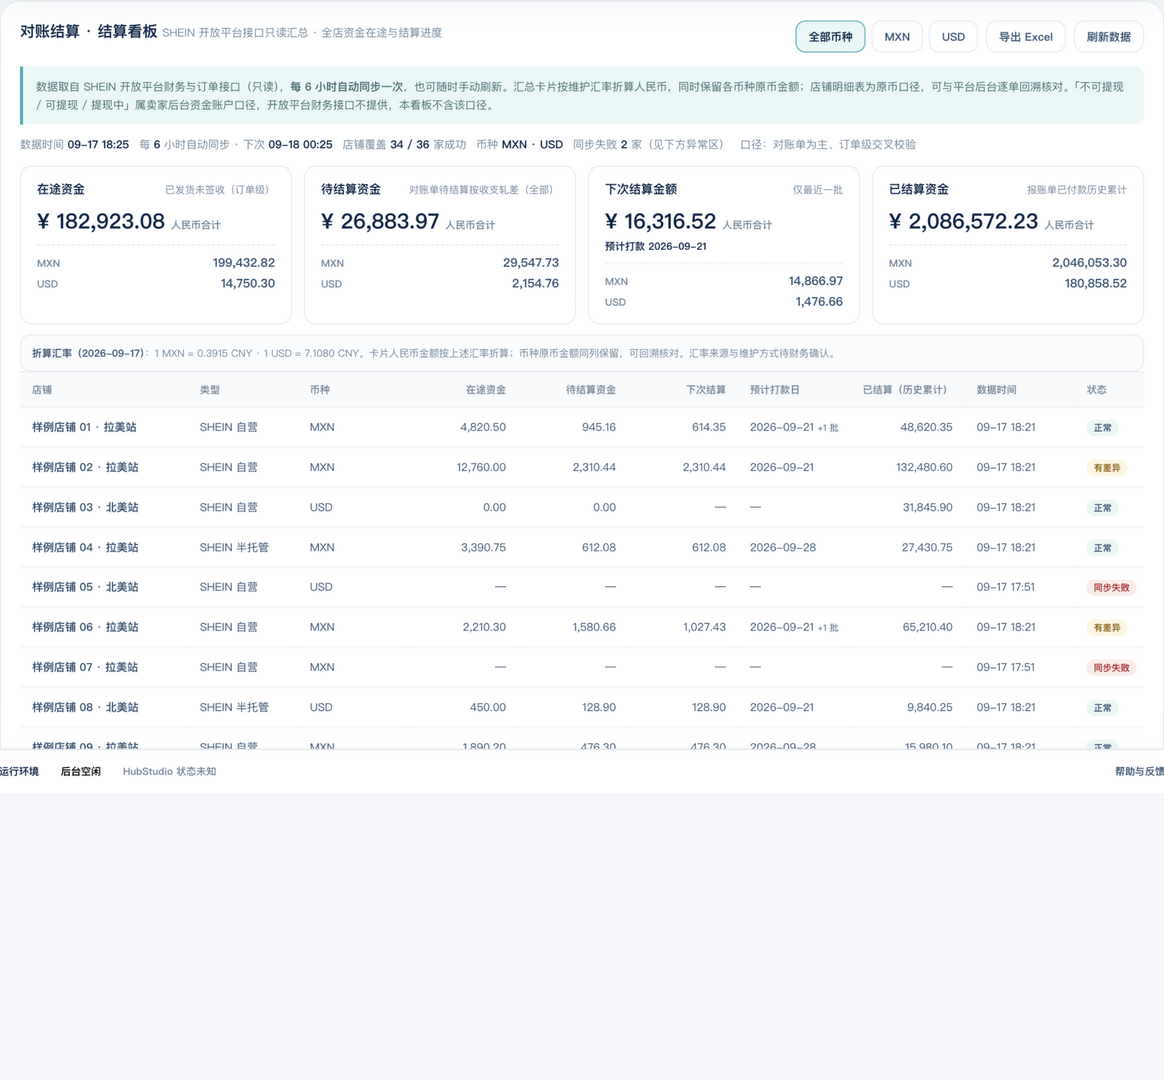
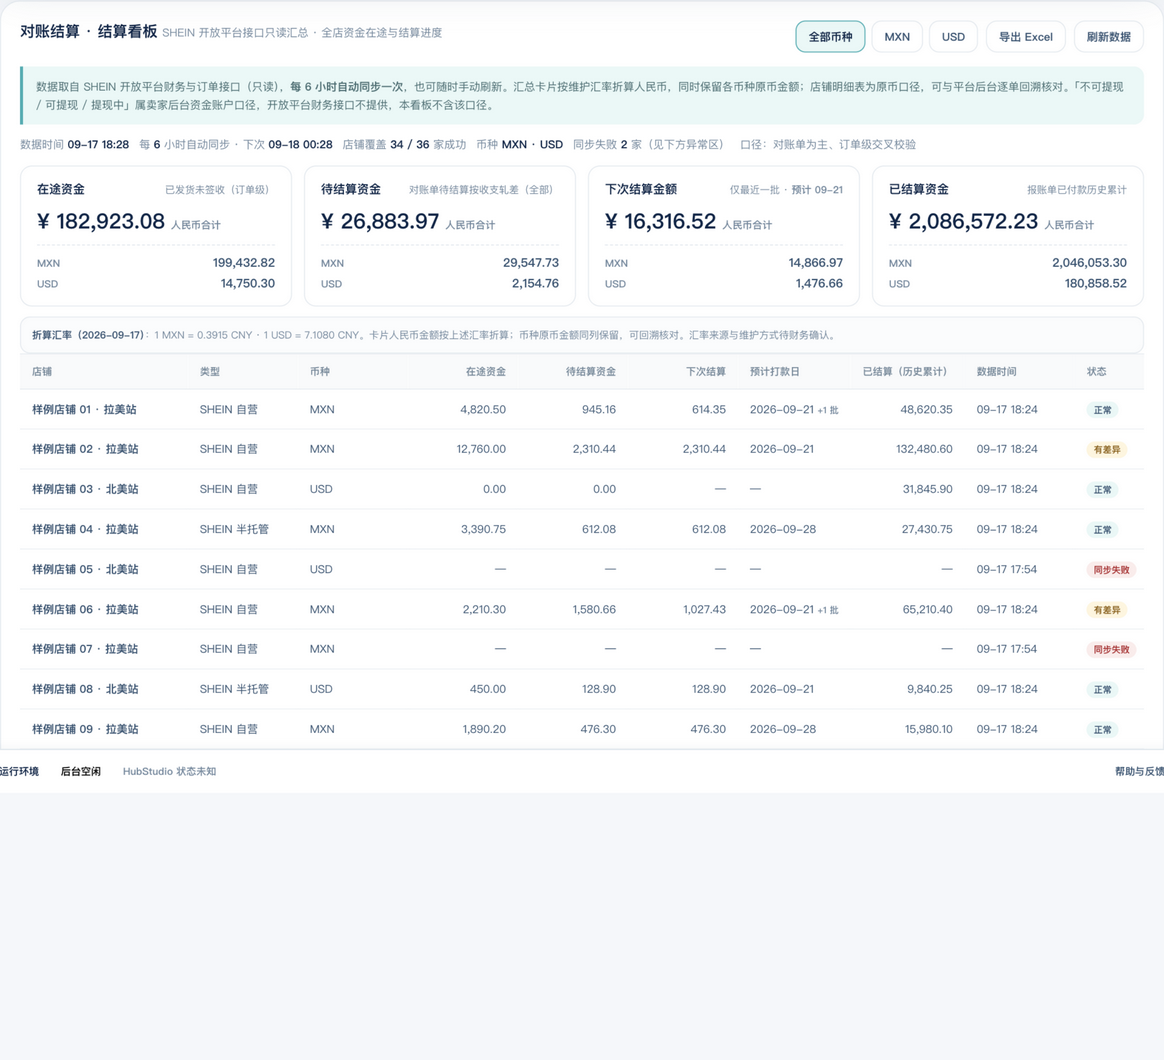
style(finance): 汇总卡片统一高度，打款日移入卡片头部
问题：预计打款日独占金额下方一行，第 3 张卡比其余三张多一行，四张卡的
人民币金额与币种行不在同一水平线上。

改为：
- 打款日移入卡片头部 hint 位（「仅最近一批 · 预计 09-21」），用强调色
  区分；四张卡结构统一为 头部 / 人民币金额 / 币种行
- .settle-card-native 设 min-height:38px：各卡币种数不一致时（某币种在
  当前筛选下无金额）卡片仍等高、币种行仍对齐
- 卡片头部 hint 不换行，避免长文案折行把金额推低

实测四张卡高度均 141px，人民币金额与首行币种行的 top 完全一致，
hint 无溢出。

diff --git a/cloud/auth-service/src/xynigo_auth/web/index.html b/cloud/auth-service/src/xynigo_auth/web/index.html
@@ -1501,7 +1501,8 @@
   .settle-card { padding: 14px 16px; border: 1px solid var(--line); border-radius: 12px; background: #fff; }
   .settle-card-head { display: flex; align-items: baseline; justify-content: space-between; gap: 8px; }
   .settle-card-head b { color: var(--navy-950); font-size: 12px; }
-  .settle-card-head small { color: var(--navy-500); font-size: 10px; }
+  .settle-card-head small { color: var(--navy-500); font-size: 10px; white-space: nowrap; }
+  .settle-hint-due { color: var(--rhino-700); font-weight: 900; }
   .settle-card-rows { margin-top: 10px; display: grid; gap: 7px; }
   .settle-card-row { display: flex; align-items: baseline; justify-content: space-between; gap: 8px; }
   .settle-card-row .cur { color: var(--navy-500); font-size: 10px; font-weight: 800; }
@@ -1509,12 +1510,12 @@
   .settle-card-row .due { color: var(--rhino-700); font-size: 10px; font-weight: 800; }
   .settle-card-cny { margin-top: 9px; color: var(--navy-950); font-size: 21px; font-weight: 900; font-variant-numeric: tabular-nums; }
   .settle-card-cny small { margin-left: 6px; color: var(--navy-500); font-size: 10px; font-weight: 800; }
-  .settle-card-native { margin-top: 9px; display: grid; gap: 4px; padding-top: 9px; border-top: 1px dashed var(--line); }
+    /* 固定两行高度：各卡币种数不一致时（如某币种无待结算）卡片仍等高、币种行仍对齐 */
+  .settle-card-native { margin-top: 9px; min-height: 38px; display: grid; gap: 4px; padding-top: 9px; border-top: 1px dashed var(--line); align-content: start; }
   .settle-native-row { display: flex; align-items: baseline; justify-content: space-between; gap: 8px; }
   .settle-native-row .cur { color: var(--navy-500); font-size: 10px; font-weight: 800; }
   .settle-native-row .amt { color: var(--navy-700); font-size: 12px; font-weight: 850; font-variant-numeric: tabular-nums; }
   .settle-native-row .due { color: var(--rhino-700); font-size: 10px; font-weight: 800; }
-  .settle-card-due { margin-top: 4px; color: var(--rhino-700); font-size: 10px; font-weight: 800; }
   .settle-more { color: var(--navy-500); font-size: 9px; font-weight: 800; }
   /* 打款日 + 「+N 批」提示不换行，避免「批」字被折到第二行 */
   .settle-table td.pay-date { white-space: nowrap; }
@@ -14004,22 +14005,25 @@ function settleRenderCards() {
     { title: '在途资金', hint: '已发货未签收（订单级）', groups: settleGroupSum(okStores, 'inTransit') },
     { title: '待结算资金', hint: '对账单待结算按收支轧差（全部）', groups: settleGroupSum(okStores, 'unsettled') },
     { title: '下次结算金额', hint: '仅最近一批', groups: nearest ? nearest.groups : [],
-      due: nearest ? `预计打款 ${nearest.date}` : '' },
+      due: nearest ? nearest.date.slice(5) : '' },
     { title: '已结算资金', hint: '报账单已付款历史累计', groups: settleGroupSum(okStores, 'settled') }
   ];
   host.innerHTML = cards.map(card => {
     const cny = settleCnyTotal(card.groups);
     const cnyLine = card.groups.length
-      ? `<div class="settle-card-cny">¥ ${settleMoney(cny)}<small>人民币合计</small></div>` +
-        (card.due ? `<div class="settle-card-due">${card.due}</div>` : '')
+      ? `<div class="settle-card-cny">¥ ${settleMoney(cny)}<small>人民币合计</small></div>`
       : '';
     const rows = card.groups.length
       ? card.groups.map(group =>
         `<div class="settle-native-row"><span class="cur">${group.currency}</span>` +
         `<span class="amt">${settleMoney(group.total)}</span></div>`).join('')
       : '<div class="settle-card-none">当前范围内无可计入店铺</div>';
+    // 打款日放卡片头部（hint 位）而不是金额下方：多出一行会把这张卡的
+    // 币种行比其他三张压低一截，四张卡就不再齐平。
+    const dueHtml = card.due
+      ? ` · <span class="settle-hint-due">预计 ${card.due}</span>` : '';
     return `<div class="settle-card"><div class="settle-card-head"><b>${card.title}</b>` +
-      `<small>${card.hint}</small></div>${cnyLine}` +
+      `<small>${card.hint}${dueHtml}</small></div>${cnyLine}` +
       `<div class="settle-card-native">${rows}</div></div>`;
   }).join('');
   const fxNote = $('settleFxNote');

diff --git a/docs/prototypes/20260917-settlement-dashboard/本地预览-结算看板.html b/docs/prototypes/20260917-settlement-dashboard/本地预览-结算看板.html
@@ -1501,7 +1501,8 @@
   .settle-card { padding: 14px 16px; border: 1px solid var(--line); border-radius: 12px; background: #fff; }
   .settle-card-head { display: flex; align-items: baseline; justify-content: space-between; gap: 8px; }
   .settle-card-head b { color: var(--navy-950); font-size: 12px; }
-  .settle-card-head small { color: var(--navy-500); font-size: 10px; }
+  .settle-card-head small { color: var(--navy-500); font-size: 10px; white-space: nowrap; }
+  .settle-hint-due { color: var(--rhino-700); font-weight: 900; }
   .settle-card-rows { margin-top: 10px; display: grid; gap: 7px; }
   .settle-card-row { display: flex; align-items: baseline; justify-content: space-between; gap: 8px; }
   .settle-card-row .cur { color: var(--navy-500); font-size: 10px; font-weight: 800; }
@@ -1509,12 +1510,12 @@
   .settle-card-row .due { color: var(--rhino-700); font-size: 10px; font-weight: 800; }
   .settle-card-cny { margin-top: 9px; color: var(--navy-950); font-size: 21px; font-weight: 900; font-variant-numeric: tabular-nums; }
   .settle-card-cny small { margin-left: 6px; color: var(--navy-500); font-size: 10px; font-weight: 800; }
-  .settle-card-native { margin-top: 9px; display: grid; gap: 4px; padding-top: 9px; border-top: 1px dashed var(--line); }
+    /* 固定两行高度：各卡币种数不一致时（如某币种无待结算）卡片仍等高、币种行仍对齐 */
+  .settle-card-native { margin-top: 9px; min-height: 38px; display: grid; gap: 4px; padding-top: 9px; border-top: 1px dashed var(--line); align-content: start; }
   .settle-native-row { display: flex; align-items: baseline; justify-content: space-between; gap: 8px; }
   .settle-native-row .cur { color: var(--navy-500); font-size: 10px; font-weight: 800; }
   .settle-native-row .amt { color: var(--navy-700); font-size: 12px; font-weight: 850; font-variant-numeric: tabular-nums; }
   .settle-native-row .due { color: var(--rhino-700); font-size: 10px; font-weight: 800; }
-  .settle-card-due { margin-top: 4px; color: var(--rhino-700); font-size: 10px; font-weight: 800; }
   .settle-more { color: var(--navy-500); font-size: 9px; font-weight: 800; }
   /* 打款日 + 「+N 批」提示不换行，避免「批」字被折到第二行 */
   .settle-table td.pay-date { white-space: nowrap; }
@@ -14004,22 +14005,25 @@ function settleRenderCards() {
     { title: '在途资金', hint: '已发货未签收（订单级）', groups: settleGroupSum(okStores, 'inTransit') },
     { title: '待结算资金', hint: '对账单待结算按收支轧差（全部）', groups: settleGroupSum(okStores, 'unsettled') },
     { title: '下次结算金额', hint: '仅最近一批', groups: nearest ? nearest.groups : [],
-      due: nearest ? `预计打款 ${nearest.date}` : '' },
+      due: nearest ? nearest.date.slice(5) : '' },
     { title: '已结算资金', hint: '报账单已付款历史累计', groups: settleGroupSum(okStores, 'settled') }
   ];
   host.innerHTML = cards.map(card => {
     const cny = settleCnyTotal(card.groups);
     const cnyLine = card.groups.length
-      ? `<div class="settle-card-cny">¥ ${settleMoney(cny)}<small>人民币合计</small></div>` +
-        (card.due ? `<div class="settle-card-due">${card.due}</div>` : '')
+      ? `<div class="settle-card-cny">¥ ${settleMoney(cny)}<small>人民币合计</small></div>`
       : '';
     const rows = card.groups.length
       ? card.groups.map(group =>
         `<div class="settle-native-row"><span class="cur">${group.currency}</span>` +
         `<span class="amt">${settleMoney(group.total)}</span></div>`).join('')
       : '<div class="settle-card-none">当前范围内无可计入店铺</div>';
+    // 打款日放卡片头部（hint 位）而不是金额下方：多出一行会把这张卡的
+    // 币种行比其他三张压低一截，四张卡就不再齐平。
+    const dueHtml = card.due
+      ? ` · <span class="settle-hint-due">预计 ${card.due}</span>` : '';
     return `<div class="settle-card"><div class="settle-card-head"><b>${card.title}</b>` +
-      `<small>${card.hint}</small></div>${cnyLine}` +
+      `<small>${card.hint}${dueHtml}</small></div>${cnyLine}` +
       `<div class="settle-card-native">${rows}</div></div>`;
   }).join('');
   const fxNote = $('settleFxNote');

diff --git a/src/purchase_tool/web/index.html b/src/purchase_tool/web/index.html
@@ -1501,7 +1501,8 @@
   .settle-card { padding: 14px 16px; border: 1px solid var(--line); border-radius: 12px; background: #fff; }
   .settle-card-head { display: flex; align-items: baseline; justify-content: space-between; gap: 8px; }
   .settle-card-head b { color: var(--navy-950); font-size: 12px; }
-  .settle-card-head small { color: var(--navy-500); font-size: 10px; }
+  .settle-card-head small { color: var(--navy-500); font-size: 10px; white-space: nowrap; }
+  .settle-hint-due { color: var(--rhino-700); font-weight: 900; }
   .settle-card-rows { margin-top: 10px; display: grid; gap: 7px; }
   .settle-card-row { display: flex; align-items: baseline; justify-content: space-between; gap: 8px; }
   .settle-card-row .cur { color: var(--navy-500); font-size: 10px; font-weight: 800; }
@@ -1509,12 +1510,12 @@
   .settle-card-row .due { color: var(--rhino-700); font-size: 10px; font-weight: 800; }
   .settle-card-cny { margin-top: 9px; color: var(--navy-950); font-size: 21px; font-weight: 900; font-variant-numeric: tabular-nums; }
   .settle-card-cny small { margin-left: 6px; color: var(--navy-500); font-size: 10px; font-weight: 800; }
-  .settle-card-native { margin-top: 9px; display: grid; gap: 4px; padding-top: 9px; border-top: 1px dashed var(--line); }
+    /* 固定两行高度：各卡币种数不一致时（如某币种无待结算）卡片仍等高、币种行仍对齐 */
+  .settle-card-native { margin-top: 9px; min-height: 38px; display: grid; gap: 4px; padding-top: 9px; border-top: 1px dashed var(--line); align-content: start; }
   .settle-native-row { display: flex; align-items: baseline; justify-content: space-between; gap: 8px; }
   .settle-native-row .cur { color: var(--navy-500); font-size: 10px; font-weight: 800; }
   .settle-native-row .amt { color: var(--navy-700); font-size: 12px; font-weight: 850; font-variant-numeric: tabular-nums; }
   .settle-native-row .due { color: var(--rhino-700); font-size: 10px; font-weight: 800; }
-  .settle-card-due { margin-top: 4px; color: var(--rhino-700); font-size: 10px; font-weight: 800; }
   .settle-more { color: var(--navy-500); font-size: 9px; font-weight: 800; }
   /* 打款日 + 「+N 批」提示不换行，避免「批」字被折到第二行 */
   .settle-table td.pay-date { white-space: nowrap; }
@@ -14004,22 +14005,25 @@ function settleRenderCards() {
     { title: '在途资金', hint: '已发货未签收（订单级）', groups: settleGroupSum(okStores, 'inTransit') },
     { title: '待结算资金', hint: '对账单待结算按收支轧差（全部）', groups: settleGroupSum(okStores, 'unsettled') },
     { title: '下次结算金额', hint: '仅最近一批', groups: nearest ? nearest.groups : [],
-      due: nearest ? `预计打款 ${nearest.date}` : '' },
+      due: nearest ? nearest.date.slice(5) : '' },
     { title: '已结算资金', hint: '报账单已付款历史累计', groups: settleGroupSum(okStores, 'settled') }
   ];
   host.innerHTML = cards.map(card => {
     const cny = settleCnyTotal(card.groups);
     const cnyLine = card.groups.length
-      ? `<div class="settle-card-cny">¥ ${settleMoney(cny)}<small>人民币合计</small></div>` +
-        (card.due ? `<div class="settle-card-due">${card.due}</div>` : '')
+      ? `<div class="settle-card-cny">¥ ${settleMoney(cny)}<small>人民币合计</small></div>`
       : '';
     const rows = card.groups.length
       ? card.groups.map(group =>
         `<div class="settle-native-row"><span class="cur">${group.currency}</span>` +
         `<span class="amt">${settleMoney(group.total)}</span></div>`).join('')
       : '<div class="settle-card-none">当前范围内无可计入店铺</div>';
+    // 打款日放卡片头部（hint 位）而不是金额下方：多出一行会把这张卡的
+    // 币种行比其他三张压低一截，四张卡就不再齐平。
+    const dueHtml = card.due
+      ? ` · <span class="settle-hint-due">预计 ${card.due}</span>` : '';
     return `<div class="settle-card"><div class="settle-card-head"><b>${card.title}</b>` +
-      `<small>${card.hint}</small></div>${cnyLine}` +
+      `<small>${card.hint}${dueHtml}</small></div>${cnyLine}` +
       `<div class="settle-card-native">${rows}</div></div>`;
   }).join('');
   const fxNote = $('settleFxNote');
